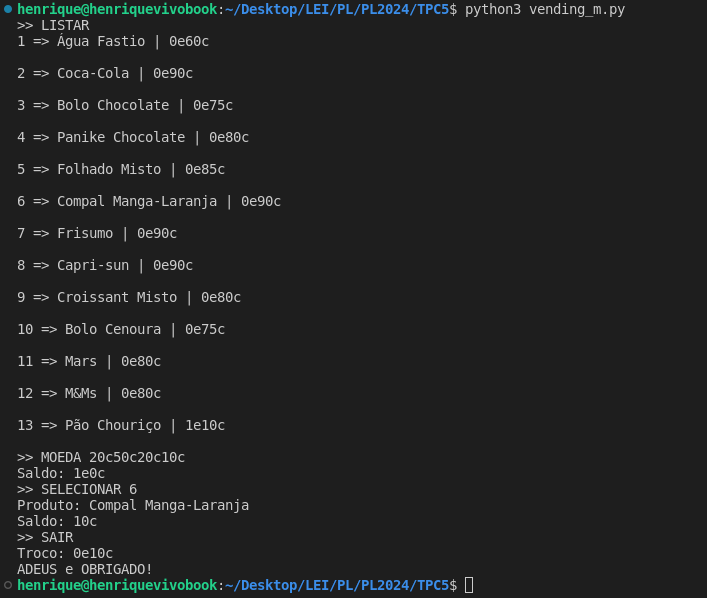
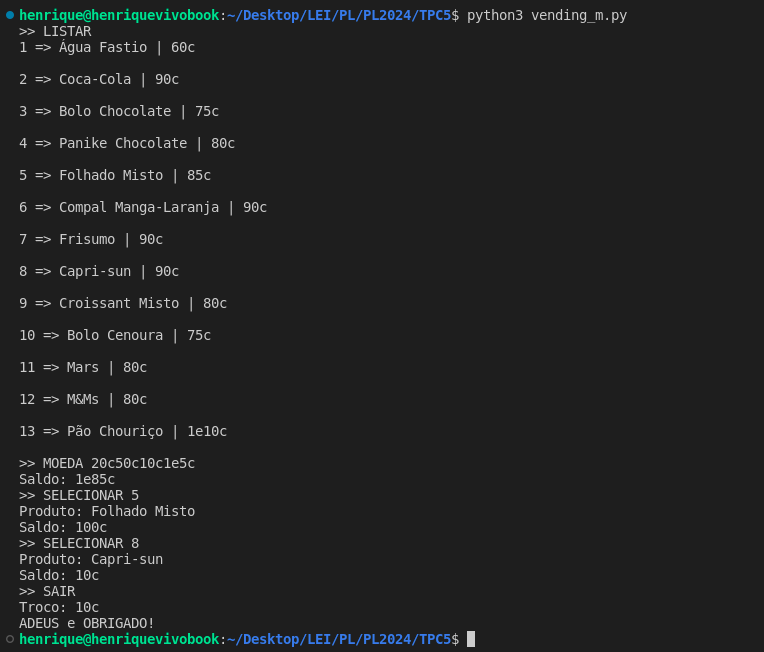
TPC5 finalizado

Changed region(s): [[0.0, 0.2107, 0.6846, 0.9933], [0.0, 0.0, 0.9024, 0.1806]]

diff --git a/TPC5/vending_m.py b/TPC5/vending_m.py
@@ -49,9 +49,12 @@ def saldo(moedas):
     return sum(moedas)  
 
 def display_saldo(saldo):
-    euros = saldo // 100 
-    cents = saldo % 100  
-    return f"{euros}e{cents}c"
+    if saldo >= 100:
+        euros = saldo // 100 
+        cents = saldo % 100  
+        return f"{euros}e{cents}c"
+    else:
+        return f"{saldo}c"
 
     
 def comprar(produto, saldo):
@@ -96,9 +99,6 @@ def main():
             print(f"Troco: {display_saldo(saldo(moedas))}") 
             print("ADEUS e OBRIGADO!")
             break
-
-
-
 
 if __name__ == "__main__":
     main()

diff --git a/TPC5/README.md b/TPC5/README.md
@@ -7,11 +7,26 @@
 **ID:** A100831
 
 ### Enunciado:
+Construir um analisador léxico e gramatical em python que funcione como uma vending machine que carregue uma lista de produtos com nome, preço e um id.
+A imagem exemplo abaixo demonstra uma lista e os seguintes os comandos que se pretendem implementar:
 
+![Exemplo de imagem](exemplo.png)
 
 
 ### Resolução:
+Começou-se com a definição de uma lista de produtos, onde cada produto é representado como um dicionário contendo o nome, preço e id do produto.
 
+Definiu-se uma lista de tokens, que são usados para analisar o input do utilizador. A função analisador_lexico utilizaa expressões regulares para comparar o input do utilizador com um dos tokens definidos. Se o input do utilizador corresponder a um dos tokens, a função retorna o tipo do token e quaisquer argumentos associados.
+
+A função analisador_gramatical é usada para interpretar o tipo e os argumentos retornados pelo analisador_lexico. Ela retorna um comando que é usado posteriormente para determinar a ação a ser tomada. Por exemplo, se o tipo for “LISTAR”, a função retorna o comando “listar”. Se o tipo for “MOEDA”, a função retorna o comando “moeda” e uma lista de moedas inseridas pelo utilizador.
+
+A função saldo calcula o saldo total das moedas inseridas pelo utilizador. A função display_saldo é usada para formatar o saldo para exibição. Se o saldo for maior ou igual a 100, ele é exibido em euros e cênctimos. Se for menor que 100, é exibido apenas em cêntimos.
+
+A função comprar tenta comprar um produto com o saldo atual. Se o saldo for suficiente, o produto é comprado e o troco é calculado. Se o saldo não for suficiente, a função levanta uma exceção.
+
+A função listar é usada para listar todos os produtos disponíveis para compra. Para cada produto, ela exibe o id do produto, o nome e o preço.
+
+A main lê o input do utilizador, analisa-o e executa o comando correspondente. O loop continua até que o comando “SAIR” seja recebido. Quando o comando “SAIR” é recebido, o programa exibe o troco restante e exibe uma mensagem de adeus.
 
 
 ### Resultados:
